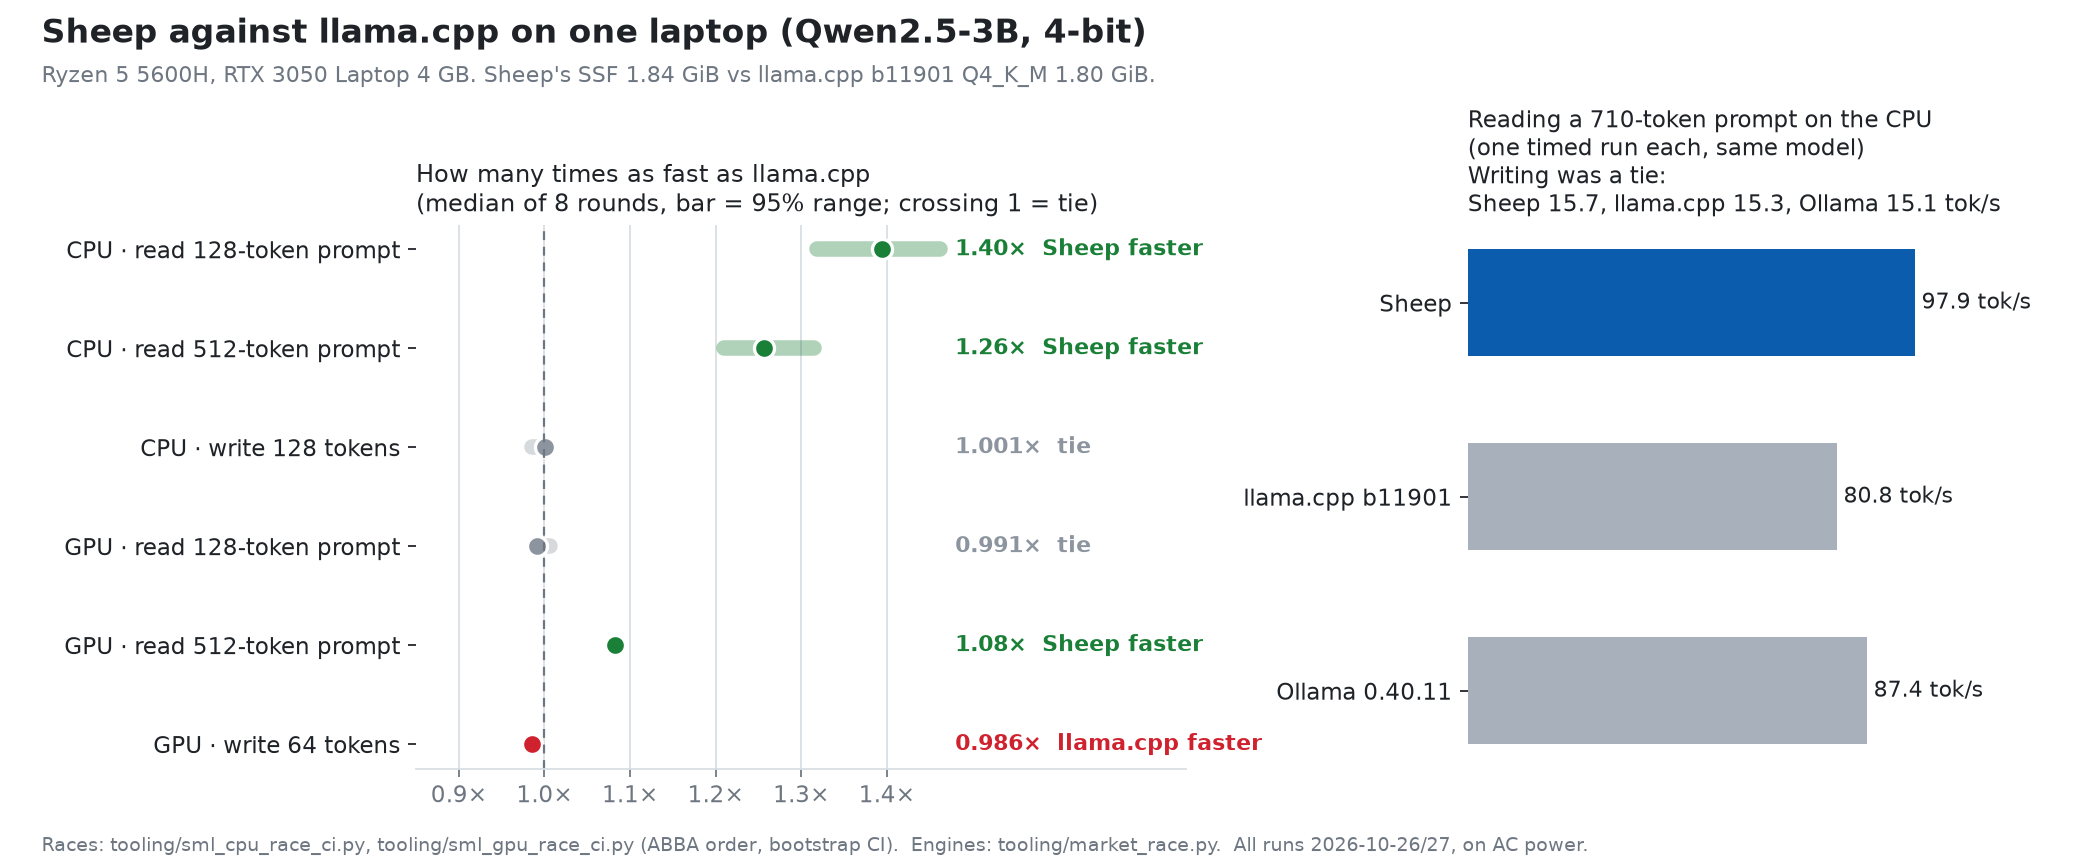
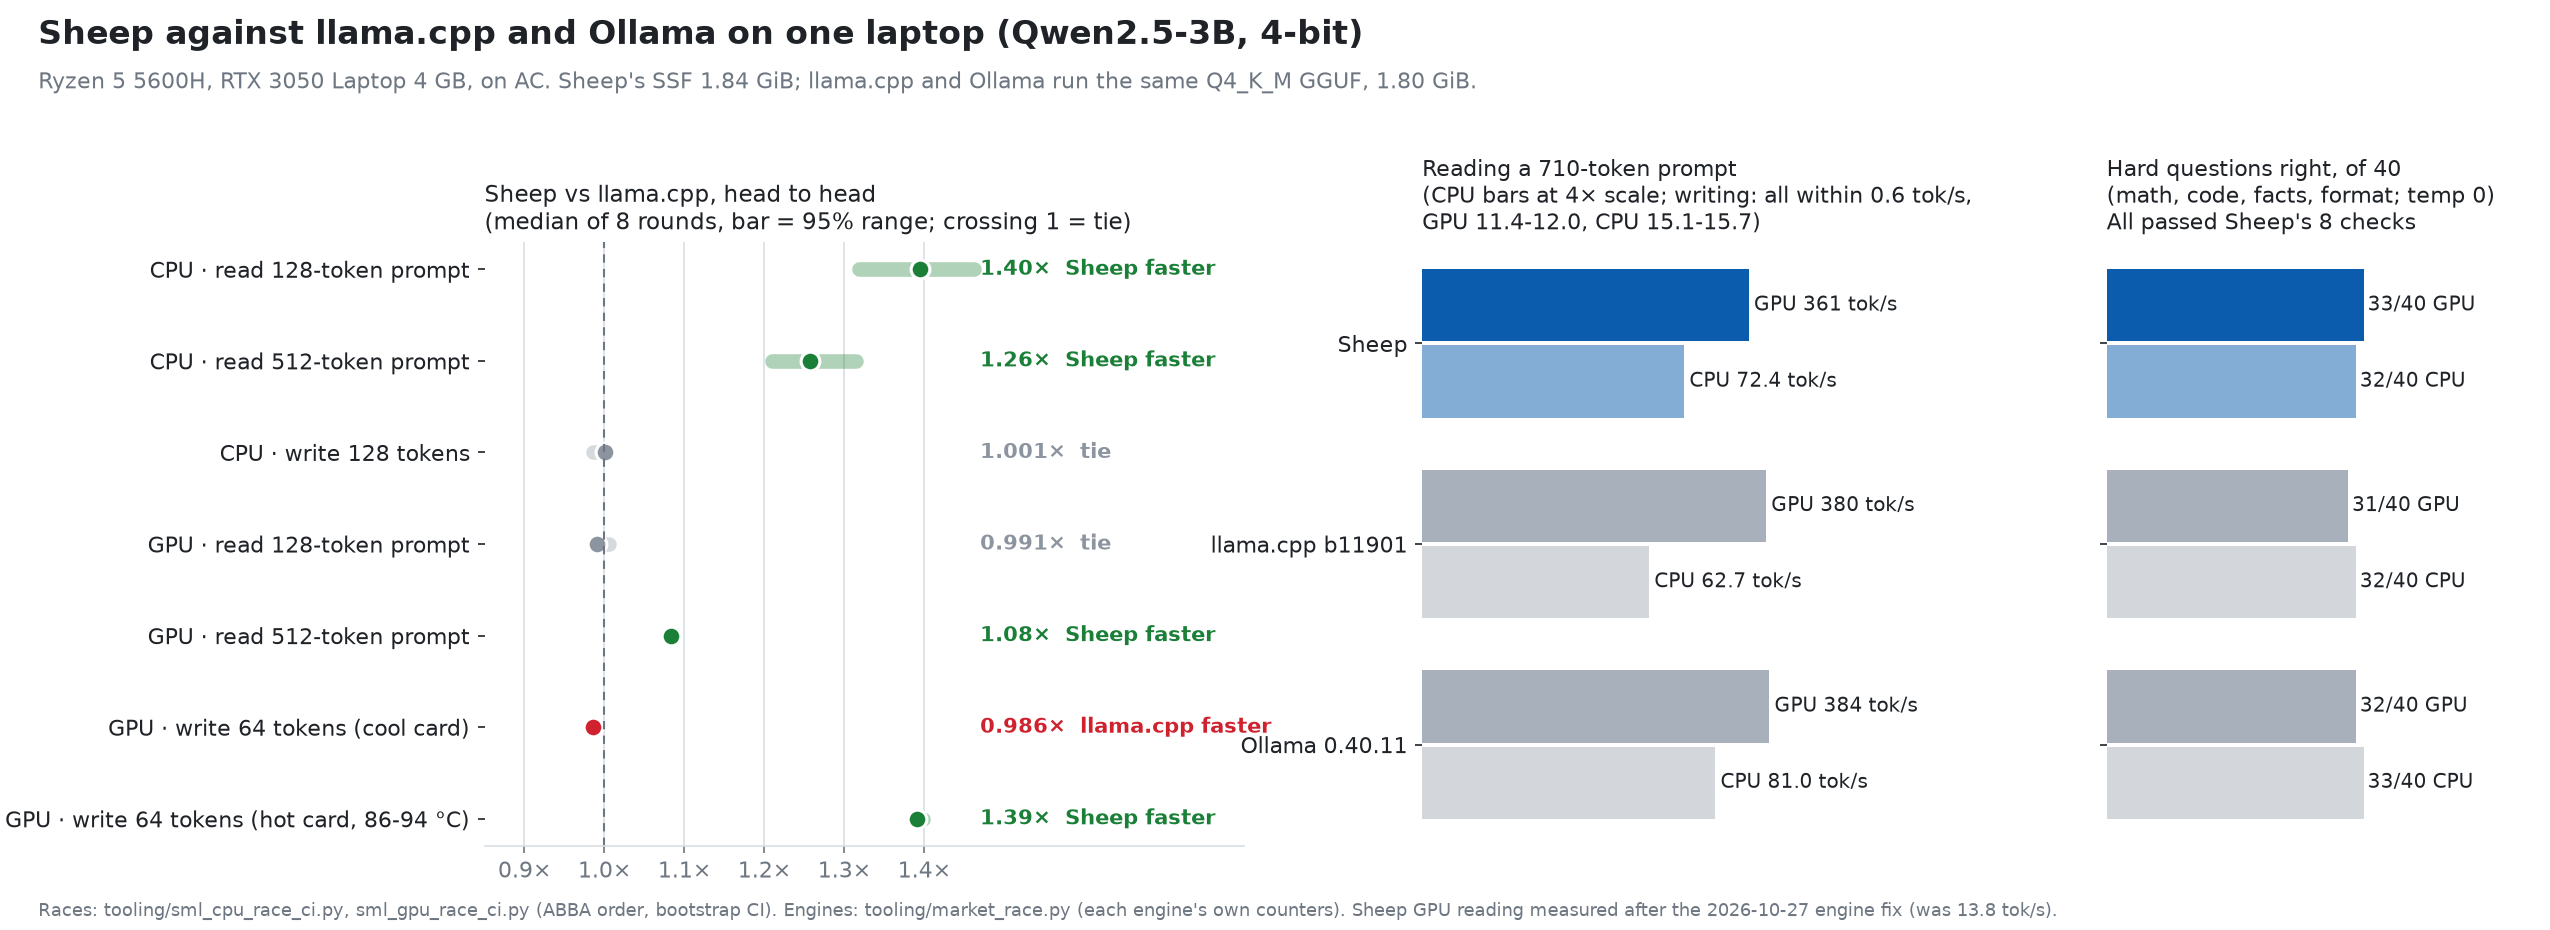
Benchmark graph: final races, three engines (speed, 40-question accuracy, checks), cool and hot GPU writing

diff --git a/tooling/benchmark_chart.py b/tooling/benchmark_chart.py
@@ -1,10 +1,11 @@
-"""The benchmark picture for the README and Devpost: Sheep against llama.cpp b11901 on one laptop.
+"""The benchmark picture for the README and Devpost: Sheep against llama.cpp and Ollama on one laptop.
 
     python tooling/benchmark_chart.py [OUT.png]
 
-Left: how many times as fast Sheep is per test (median of 8 ABBA rounds, bar = 95% bootstrap range;
-right of 1 = Sheep faster). Right: tokens per second on the CPU for Sheep, llama.cpp and Ollama
-(one timed run each, same prompt). Every number is a measured result, copied from the race logs.
+Left: how many times as fast Sheep is than llama.cpp b11901 per test (median of 8 ABBA rounds, bar = 95%
+bootstrap range; right of 1 = Sheep faster). Middle: prompt-reading speed of the three engines on the GPU
+and the CPU. Right: answers right out of 40 hard questions and Sheep's 8 checks. Every number is a
+measured result, copied from the race logs (2026-10-26/27, Ryzen 5 5600H, RTX 3050 Laptop 4 GB, on AC).
 """
 import sys
 from pathlib import Path
@@ -13,18 +14,23 @@ import matplotlib
 matplotlib.use("Agg")
 import matplotlib.pyplot as plt  # noqa: E402
 
-# (test, ratio, ci_low, ci_high) from tooling/sml_cpu_race_ci.py and sml_gpu_race_ci.py, Qwen2.5-3B-Instruct,
-# Sheep SSF (1.84 GiB) against llama.cpp b11901 Q4_K_M (1.80 GiB), Ryzen 5 5600H / RTX 3050 Laptop 4 GB
+# tooling/sml_cpu_race_ci.py and sml_gpu_race_ci.py: (test, ratio, ci_low, ci_high)
 RACES = [
     ("CPU · read 128-token prompt", 1.395, 1.318, 1.462),
     ("CPU · read 512-token prompt", 1.257, 1.210, 1.315),
     ("CPU · write 128 tokens", 1.001, 0.986, 1.005),
     ("GPU · read 128-token prompt", 0.991, 0.988, 1.006),
     ("GPU · read 512-token prompt", 1.083, 1.082, 1.087),
-    ("GPU · write 64 tokens", 0.986, 0.986, 0.988),
+    ("GPU · write 64 tokens (cool card)", 0.986, 0.986, 0.988),
+    ("GPU · write 64 tokens (hot card, 86-94 °C)", 1.391, 1.390, 1.399),
 ]
-# tooling/market_race.py, CPU, 6 threads, ~710-token prompt, 128 new tokens (tokens per second)
-ENGINES = [("Sheep", 97.9, 15.65), ("llama.cpp b11901", 80.8, 15.28), ("Ollama 0.40.11", 87.4, 15.13)]
+# tooling/market_race.py: each engine as a server, ~710-token prompt, 128 new tokens, median of 5 runs;
+# accuracy_eval.py's 40 questions at temperature 0; Sheep's 8 checks (all engines passed 8/8)
+ENGINES = [  # name, GPU read, CPU read, GPU write, CPU write, right on GPU, right on CPU
+    ("Sheep", 361.0, 72.4, 11.4, 15.1, 33, 32),
+    ("llama.cpp b11901", 380.1, 62.7, 11.7, 15.2, 31, 32),
+    ("Ollama 0.40.11", 383.7, 81.0, 12.0, 15.7, 32, 33),
+]
 
 INK, MUTED, GRID, BG = "#1f2328", "#6e7781", "#d8dee4", "#ffffff"
 WIN, TIE, LOSS = "#1a7f37", "#8c959f", "#cf222e"
@@ -35,54 +41,76 @@ def verdict(lo, hi):
     return WIN if lo > 1 else LOSS if hi < 1 else TIE
 
 
+def clean(ax):
+    for s in ("top", "right", "left"):
+        ax.spines[s].set_visible(False)
+
+
 def main(out):
     plt.rcParams.update({"font.family": "DejaVu Sans", "font.size": 10.5, "axes.edgecolor": GRID,
                          "axes.labelcolor": INK, "xtick.color": MUTED, "ytick.color": INK})
-    fig, (a, b) = plt.subplots(1, 2, figsize=(13, 5.4), gridspec_kw={"width_ratios": [1.35, 1]}, facecolor=BG)
-    fig.suptitle("Sheep against llama.cpp on one laptop (Qwen2.5-3B, 4-bit)", x=0.02, ha="left",
-                 fontsize=15, fontweight="bold", color=INK)
-    fig.text(0.02, 0.905, "Ryzen 5 5600H, RTX 3050 Laptop 4 GB. Sheep's SSF 1.84 GiB vs llama.cpp b11901 Q4_K_M 1.80 GiB.",
-             fontsize=10, color=MUTED)
+    fig, (a, b, c) = plt.subplots(1, 3, figsize=(17, 6.2), gridspec_kw={"width_ratios": [1.5, 1, 0.8]}, facecolor=BG)
+    fig.suptitle("Sheep against llama.cpp and Ollama on one laptop (Qwen2.5-3B, 4-bit)", x=0.015, ha="left",
+                 fontsize=16, fontweight="bold", color=INK)
+    fig.text(0.015, 0.905, "Ryzen 5 5600H, RTX 3050 Laptop 4 GB, on AC. Sheep's SSF 1.84 GiB; llama.cpp and Ollama "
+             "run the same Q4_K_M GGUF, 1.80 GiB.", fontsize=10.5, color=MUTED)
 
     ys = list(range(len(RACES)))[::-1]
     for y, (name, r, lo, hi) in zip(ys, RACES):
-        c = verdict(lo, hi)
-        a.plot([lo, hi], [y, y], color=c, lw=7, alpha=0.35, solid_capstyle="round")
-        a.plot([r], [y], "o", color=c, ms=9, mec=BG, mew=1.5)
-        word = "Sheep faster" if c == WIN else "llama.cpp faster" if c == LOSS else "tie"
+        col = verdict(lo, hi)
+        a.plot([lo, hi], [y, y], color=col, lw=7, alpha=0.35, solid_capstyle="round")
+        a.plot([r], [y], "o", color=col, ms=9, mec=BG, mew=1.5)
+        word = "Sheep faster" if col == WIN else "llama.cpp faster" if col == LOSS else "tie"
         num = f"{r:.3f}" if abs(r - 1) < 0.02 else f"{r:.2f}"
-        a.text(1.48, y, f"{num}×  {word}", va="center", fontsize=10, color=c, fontweight="bold")
+        a.text(1.47, y, f"{num}×  {word}", va="center", fontsize=10, color=col, fontweight="bold")
     a.axvline(1.0, color=MUTED, lw=1, ls=(0, (4, 3)))
     a.set_yticks(ys, [n for n, *_ in RACES])
-    a.set_xlim(0.85, 1.75)
+    a.set_xlim(0.85, 1.8)
     a.set_xticks([0.9, 1.0, 1.1, 1.2, 1.3, 1.4])
     a.set_xticklabels(["0.9×", "1.0×", "1.1×", "1.2×", "1.3×", "1.4×"])
     a.grid(axis="x", color=GRID, lw=0.8)
     a.set_axisbelow(True)
-    for s in ("top", "right", "left"):
-        a.spines[s].set_visible(False)
-    a.set_title("How many times as fast as llama.cpp\n(median of 8 rounds, bar = 95% range; crossing 1 = tie)",
+    clean(a)
+    a.set_title("Sheep vs llama.cpp, head to head\n(median of 8 rounds, bar = 95% range; crossing 1 = tie)",
                 loc="left", fontsize=11, color=INK)
 
     names = [n for n, *_ in ENGINES]
-    for i, (n, pp, tg) in enumerate(ENGINES):
-        b.barh(i, pp, height=0.55, color=SHEEP if n == "Sheep" else OTHER)
-        b.text(pp + 1.5, i, f"{pp:.1f} tok/s", va="center", fontsize=10, color=INK)
+    for i, (n, gr, cr, gw, cw, rg, rc) in enumerate(ENGINES):
+        col = SHEEP if n == "Sheep" else OTHER
+        b.barh(i - 0.19, gr, height=0.36, color=col)
+        b.barh(i + 0.19, cr * 4, height=0.36, color=col, alpha=0.5)
+        b.text(gr + 6, i - 0.19, f"GPU {gr:.0f} tok/s", va="center", fontsize=9.5, color=INK)
+        b.text(cr * 4 + 6, i + 0.19, f"CPU {cr:.1f} tok/s", va="center", fontsize=9.5, color=INK)
     b.set_yticks(range(len(ENGINES)), names)
     b.invert_yaxis()
     b.set_xticks([])
-    b.set_xlim(0, 125)
-    for sp in ("top", "right", "bottom", "left"):
-        b.spines[sp].set_visible(False)
-    writing = ", ".join(f"{n.split()[0]} {tg:.1f}" for n, _, tg in ENGINES)
-    b.set_title("Reading a 710-token prompt on the CPU\n(one timed run each, same model)\n"
-                f"Writing was a tie:\n{writing} tok/s", loc="left", fontsize=10.5, color=INK)
+    b.set_xlim(0, 560)
+    clean(b)
+    b.spines["bottom"].set_visible(False)
+    b.set_title("Reading a 710-token prompt\n(CPU bars at 4× scale; writing: all within 0.6 tok/s,\n"
+                "GPU 11.4-12.0, CPU 15.1-15.7)", loc="left", fontsize=10.5, color=INK)
 
-    fig.text(0.02, 0.015, "Races: tooling/sml_cpu_race_ci.py, tooling/sml_gpu_race_ci.py (ABBA order, bootstrap CI).  "
-             "Engines: tooling/market_race.py.  All runs 2026-10-26/27, on AC power.", fontsize=8.5, color=MUTED)
-    fig.subplots_adjust(left=0.2, right=0.98, top=0.74, bottom=0.11, wspace=0.42)
+    for i, (n, gr, cr, gw, cw, rg, rc) in enumerate(ENGINES):
+        col = SHEEP if n == "Sheep" else OTHER
+        c.barh(i - 0.19, rg, height=0.36, color=col)
+        c.barh(i + 0.19, rc, height=0.36, color=col, alpha=0.5)
+        c.text(rg + 0.5, i - 0.19, f"{rg}/40 GPU", va="center", fontsize=9.5, color=INK)
+        c.text(rc + 0.5, i + 0.19, f"{rc}/40 CPU", va="center", fontsize=9.5, color=INK)
+    c.set_yticks(range(len(ENGINES)), [""] * len(ENGINES))
+    c.invert_yaxis()
+    c.set_xticks([])
+    c.set_xlim(0, 52)
+    clean(c)
+    c.spines["bottom"].set_visible(False)
+    c.set_title("Hard questions right, of 40\n(math, code, facts, format; temp 0)\nAll passed Sheep's 8 checks",
+                loc="left", fontsize=10.5, color=INK)
+
+    fig.text(0.015, 0.015, "Races: tooling/sml_cpu_race_ci.py, sml_gpu_race_ci.py (ABBA order, bootstrap CI). Engines: "
+             "tooling/market_race.py (each engine's own counters). Sheep GPU reading measured after the 2026-10-27 "
+             "engine fix (was 13.8 tok/s).", fontsize=8.5, color=MUTED)
+    fig.subplots_adjust(left=0.19, right=0.985, top=0.74, bottom=0.09, wspace=0.32)
     Path(out).parent.mkdir(parents=True, exist_ok=True)
-    fig.savefig(out, dpi=160, facecolor=BG)
+    fig.savefig(out, dpi=150, facecolor=BG)
     print(out)
 
 
